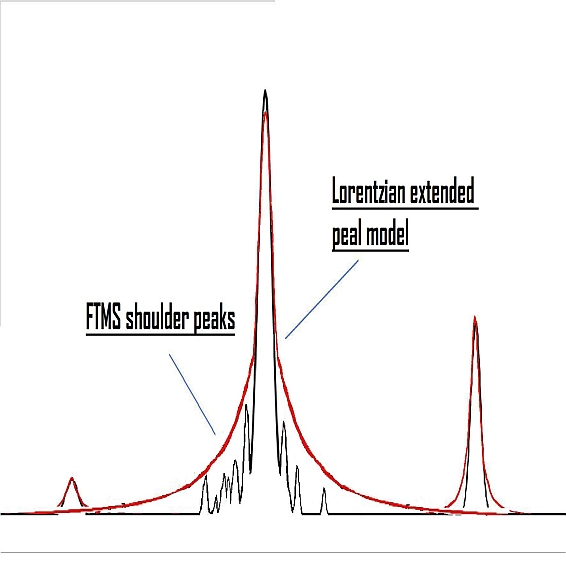
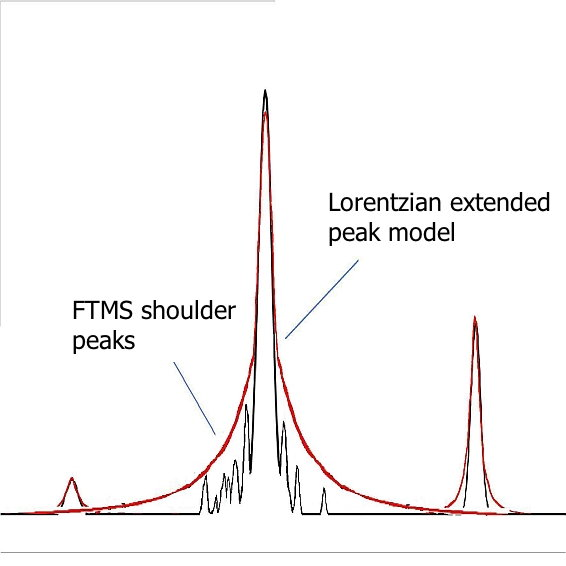
Working on Chromatogram builder help file...

Changed region(s): [[0.5707, 0.3004, 0.9912, 0.4505], [0.1201, 0.5106, 0.4205, 0.6307]]

diff --git a/src/net/sf/mzmine/modules/peakpicking/chromatogrambuilder/help/ChromatogramBuilder.html b/src/net/sf/mzmine/modules/peakpicking/chromatogrambuilder/help/ChromatogramBuilder.html
@@ -30,6 +30,10 @@ In the Mass detection step, individual ions are detected in each mass spectrum. 
 The choice of the optimal algorithm depends on the raw data characteristics (mass resolution, mass precision, peak shape).
 </p>
 
+<p>
+In case the raw data is already centroided, only one algorithm (Centroid mass detector) can be used. Other algorithms work only with continuous type data.
+</p>
+
 <h3>Centroid mass detector</h3>
 
 <p>
@@ -92,7 +96,9 @@ The practical usability of this method on real MS data is limited, but it is use
 <h3>Recursive threshold mass detector</h3>
 
 <p>
-This mass detector works in a recursive way. Initially, it looks at the whole range of data points. 
+This mass detector is suitable for continuous data, which has too much noise for the Exact mass detector to be used, but which shows a consistent width of m/z peaks. 
+The algorithm works in a recursive way.
+Initially, it looks at the whole range of data points. 
 If the m/z width of this range is not within given limits, a minimum data point is found and used to split the range in two parts.
 The same algorithm is then applied recursively on each part. 
 Recursion continues until all m/z ranges which fit into the given width limits are found.
@@ -120,16 +126,14 @@ Final m/z values are determined as local maxima of the identified m/z ranges.
 <h3>Wavelet transform mass detector</h3>
 
 <p>
-This mass detector uses the Mexican Hat wavelet model of the continuous wavelet transform CWT) algorithm. 
+The Wavelet transform mass detector is particularly suitable for low-resolution and noisy data.
+The method uses the Mexican Hat wavelet model of the continuous wavelet transform CWT) algorithm. 
 The search of mass spectrum peaks is executed in three steps. 
-First converts the original intensity of data points into wavelet domain.
-Next look for all local maximums in the calculated wavelet. 
-And finally sets a mass spectrum peak in the same point wherethe wavelet has a local maximum.  
-The mass spectrum peak is formed with the selected data point (mass and intensity) using the wavelet and all surrounding data points. 
-These weightings determine the relative importance of each data point mass on the average. 
-The data points used in the calculation of exact mass are considered part of the mass spectrum peak. 
-
-This mass detector is recommended for raw data with low resolution. 
+First, the data point intesity is converted into wavelet domain.
+Next, all local maxima of the calculated wavelet are found. 
+Finally, m/z peaks (ions) are declared in those points, where the wavelet has a local maximum.  
+The m/z peak is formed with the selected data point (mass and intensity) using the wavelet and all surrounding data points. 
+The final m/z value of the ion is calculated as an average of m/z values of surrounding data points weighted by their intensity.
 </p>
 
 <h4>Mathematical model</h4>
@@ -140,24 +144,28 @@ In mathematics and numerical analysis, the Mexican hat wavelet is the normalized
 The parameter <i>t</i> is the intensity of each data point in the curve, and <i>sigma</i> corresponds to the standard deviation.
 </p>
 
+<p>
 <img src="Wavelet_Mex_Hat.png">
 <img src="Wavelet_calculated_form.jpg">
-
-<p>
-To make easier the process of wavelet calculation the original function 
-is turned into two parts, where <i>Wc</i> is the wavelet coeefient and <i>y</i>
-is the intensity of the wavelet on certain point. In the first formula "t" is the
-<i>"Wavelet window size(%)"</i> parameter.
 </p>
 
-<img src="Wavelet_coefficients_calculation.jpg">
-<img src="Wavelet_intensities_calculation.jpg">
+<p>
+To simplify the process of wavelet calculation, the original function 
+is transformed into two parts, where <i>Wc</i> is the wavelet coefficient and <i>y</i>
+is the intensity of the wavelet at certain point. In the following formula, "t" is the
+<i>Wavelet window size(%)</i> parameter.
+</p>
 
 <p>
-The limits where is evaluated the Mexican Hat wavelet are from -5 until 5 (ESL,ESR)
- and the incremental step used in this range is result of divide the range from ESL 
- until ESR by 60000. The number of coeffients used to calculated the wavelet intensity 
- depends on the <i>"Scale level"</i> parameter.
+<img src="Wavelet_coefficients_calculation.jpg">
+<img src="Wavelet_intensities_calculation.jpg">
+</p>
+
+<p>
+The limits, where the Mexican Hat wavelet is evaluated, are from -5 until 5 (ESL, ESR)
+ and the incremental step used in this range is the result of divide the width of ESL 
+ to ESR range by 60,000. The number of coefficients used to calculated the wavelet intensity 
+ depends on the <i>Scale level</i> parameter.
 </p>
 
 <h4>Method parameters</h4>
@@ -175,9 +183,9 @@ results in a more detailed resulting graph and as a consequence more noisy peaks
  
 <dt>Wavelet window size (%)</dt>
 <dd>This value is the size of the window used to calculated the wavelet signal. 
-When the size of the window is small makes more noisy peaks could be detected.
- On the other hand, when the size of the window is complete is possible to avoid the undesired
- peaks, depending on the raw data to process this parameter is manipulated by the user.<br><br>
+When the size of the window is small, more noisy peaks can be detected.
+ The proper setting of this parameter may help to avoid the undesired noise
+ peaks.<br><br>
  
 Wavelet window size at 10%:<br>
 <img src="Wavelet_window_size10.jpg"><br>
@@ -195,157 +203,108 @@ Wavelet window size at 100%:<br>
 <h2>Filtering</h2>
 
 <p>
-Filtering is optional operation
+Filtering is an optional operation which may reduce the amount of false chromatograms by removing those m/z signals which can be recognized as noise. The filtering is done on the detected m/z peak lists, raw data is not considered in this step.
 </p>
 
-<h3>FTMS Shoulder peaks filter</h3>
+<h3>FTMS shoulder peaks filter</h3>
 
-The raw data obtained from a FTMS Mass Spectrometer usually contains a lot of small shoulder peaks (FTMS shoulder peaks). This data points can be casted aside of the peak detection process. In order to reach this, a peak model (shape) is used to determine which of these data points are shoulder peaks and which not. 
-
-Gauss peak model</h1>
-
-<p style="margin-left: 30px;" align="justify"; >
-One approach used in the peak analysis of spectrums for the purpose of modelling 
-is to use mathematical distributions. In this case an implementation of Gaussian 
-function is used to describe the possible shape of the current data. This peak model
- helps to eliminate data points in the spectrum considered as noise.
+<p>
+Raw data obtained from FTMS (Fourier Transform Mass Spectrometer) instruments often contains false signals around high-intensity m/z peaks, called "shoulder peaks".
+These signals are residues of the Fourier Transform function and their intensity is usually below 5% of the main (true) m/z peak.
+The FTMS shoulder peaks filter attempts to remove these false signals. 
+Detected m/z peaks are processed in the order of decreasing intensity.
+A peak model (shape) is built around each m/z peak using given function and resolution, and those m/z peaks which fall below the model are considered to be shoulder peaks and are removed.
+The method offers three peak models.
 </p>
 
-<h2 style="margin-left: 20px;">Mathematical model</h2>
+<h4>Method parameters</h4>
 
-<p style="margin-left: 30px;" align="justify"; >
+<dl>
+<dt>Mass resolution of the data</dt>
+<dd>Defines the width of the model, which should be equal to the estimated resolution of the peaks in the raw data. Mass resolution is defined according to the following scheme:<br>
+<img src="resolving-power.png"></dd>
+
+<dt>Peak model function</dt>
+<dd>Defines the shape of the model function, as described below.</dd> 
+
+</dl>
+
+<h4>Gaussian peak model</h4>
+
+<p>
 The Gaussian peak model is a characteristic symmetric "bell shape curve" that quickly
- falls off towards plus/minus infinity, described by the next formula.
+ falls off towards plus/minus infinity, described by the following formula.
+ <img src="GaussFormula.png">
 </p>
 
-<table style="margin-left: 30px; margin-right: auto;">
-
-<tr></tr>
-<tr></tr>
-<tr>
-	<td>
-	<img src="GaussFormula.png">
-	</td>
-</tr>
-</table>
-
-<p style="margin-left: 30px;" align="justify"; >
-The parameter a is the height of the curve's peak, b is the position of the center of the peak,
- and c controls the width of the "bell".The parameter c is related to the full width at half 
- maximum (FWHM) of the peak according to<br>
+<p>
+The parameter "a" is the height of the curve's peak, "b" is the position of the center of the peak,
+ and "c" controls the width of the "bell".
 </p>
 
-<table style="margin-left: 30px; margin-right: auto;">
-<tr></tr>
-<tr></tr>
-<tr>
-	<td>
-	<img src="FWHM.png">
-	</td>
-</tr>
-</table>
-
-<p style="margin-left: 30px;" align="justify"; >
-The value of <i>"FWHM"</i> is calculated using the mass of the current data point divided by 
-the resolution of the data.<br>
-</p>
-<img src="GaussPeak.jpg" border="2">
-
-Lorentzian peak model</h1>
-
-<p style="margin-left: 30px;" align="justify"; >
-The Lorentzian function (Cauchy-Lorentz distribution), is used for this model due
- its longer lateral sides. This characteristic helps to avoid lateral peaks (shoulder peaks)
-  in the case of FTMS raw data. This peak model helps to eliminate this not desired data points
-  in a more natural way than Gauss peak model and its variants.
+<p>
+<img src="GaussPeak.jpg">
 </p>
 
-<table style="margin-left: 30px; margin-right: auto;">
+<h4>Lorentzian peak model</h4>
 
-<tr></tr>
-<tr></tr>
-<tr>
-	<td>
-	<img src="Cauchy_distribution.png" border="2">
-	</td>
-</tr>
-</table>
-
-<h2 style="margin-left: 20px;">Mathematical model</h2>
-
-<p style="margin-left: 30px;" align="justify"; >
-The Lorentzian peak model is described by the next formula.
+<p>
+The Lorentzian function (Cauchy-Lorentz distribution) is used for this model.<br>
+<img src="Cauchy_distribution.png">
 </p>
 
-<table style="margin-left: 30px; margin-right: auto;">
-
-<tr></tr>
-<tr></tr>
-<tr>
-	<td>
-	<img src="LorentzianFormula.png">
-	</td>
-</tr>
-</table>
-
-<p style="margin-left: 30px;" align="justify"; >
-Where x0 is the location parameter, specifying the location of the peak of the distribution,
- and "y" is the scale parameter which specifies the half-width at half-maximum (HWHM).<br>
+<p>
+The Lorentzian peak model is described by the following formula:
+<img src="LorentzianFormula.png"><br>
+Where "x0" is the location parameter, specifying the location of the peak of the distribution,
+ and "y" is the scale parameter which specifies the width of the peak.
 </p>
 
-<p style="margin-left: 30px;" align="justify"; >
-The HWHM is calculated using the <a href="GaussPeak.html">FWHM</a> divided by 2.<br>
+<p>
+<img src="LorentzianPeak.jpg">
 </p>
 
-<img src="LorentzianPeak.jpg" border="2">
+<h4>Lorentzian extended peak model</h4>
 
-
-Lorentzian extended peak model</h1>
-
-<p style="margin-left: 30px;" align="justify"; >
-This model uses the same mathematical formula as Lorentzian peak model, but at the base 
-of the peak model the HWHM parameter is modified (below of 5% of intensity). 
-The width of the peak is increased until a similar value obtained from a peak with 
-a resolution of 5% of the actual data point.
+<p>
+This model uses the same mathematical formula as the Lorentzian peak model, but the lower part of the model (below of 5% of intensity)
+is extended. 
+The width of the peak below 5% intensity is calculated from another Lorentzian peak with 5% of the resolution of the main peak.
 </p>
 
-<h2 style="margin-left: 20px;">Mathematical model</h2>
-
-<p style="margin-left: 30px;" align="justify"; >
-The <a href="LorentzianPeak.html">Lorentzian peak model</a> is the base for this model. 
-The only difference is the width (HWHM) used at 5% of intensity or less.
+<p>
+<img src="LorentzianExtended.jpg">
 </p>
-
-<table style="margin-left: 30px; margin-right: auto;">
-<tr></tr>
-<tr></tr>
-<tr>
-	<td>
-	<img src="LorentzianExtended.jpg" border="2">
-	</td>
-</tr>
-</table>
-
 
 <h2>Chromatogram construction</h2>
 
 <p>
-After mass detection is finished in one spectrum the second step take each one of the detected 
-masses and try to find the most related chromatogram. If it is not possible to relate a mass data 
-point with any chromatogram, a new chromatogram is initialized with this mass. The factor to 
-establish the relationship between a chromatogram and a mass datapoint depends on the mass (m/z) 
-and intensity.
+When mass detection and filtering is finished, m/z data points from each scan must be connected together to form chromatograms.
 </p>
 
-<h3>Highest datapoint connector</h3>
+<h3>Highest data point</h3>
 
 <p>
-This chromatogram builder connects the received mass spectrum peak across the retention time to one chromatogram based in a match score. This match score is set using as a criteria the next highest data point within a m/z range. This builder determines which mass spectrum peaks are within the m/z range having as a central point the last mass peak added to the current chromatogram.
-
-This detector use a single parameter "noise level". This value sets the minimum intensity level for a centroided data point must have to be consider as part of a possible peak.
-Parameter setup dialog
-
+This method maintains a pool of chromatograms spanning between scans. 
+For each processed spectrum, the ion list generated by the mass detector (and filtered, if selected) is processed in the 
+order of decreasing intensity and each m/z peak is connected to the appropriate chromatogram according to
+the m/z tolerance parameter. 
+When no matching chromatogram is found, a new chromatogram is with the m/z value and added to the pool.
+When a chromatogram is finished (no m/z peak is found to be connected to), its length (time span) and intensity (heihgt) are checked according to user-specified minimal values.
+Those chromatograms which fit the required parameters are added to the final peak list.
 </p>
+
+<dl>
+<dt>Min time span</dt>
+<dd>Minimum time over which the same ion must be connected in order to be recognized as a chromatogram. This parameter should be set by observing the raw data according to the standard length of chromatographic peaks.</dd>
+
+<dt>Min height</dt>
+<dd>Minimum intensity of the highest data point in the chromatogram. If chromatogram height is below this level, it is discarded.</dd> 
+
+<dt>m/z tolerance</dt>
+<dd>Maximum m/z difference of data points in consecutive scans in order to be connected in the same chromatogram.</dd> 
+
+</dl>
 
 </body>
 </html>

diff --git a/src/net/sf/mzmine/modules/peakpicking/chromatogrambuilder/massfilters/shoulderpeaksfilter/peakmodels/ExtendedLorentzianPeak.java b/src/net/sf/mzmine/modules/peakpicking/chromatogrambuilder/massfilters/shoulderpeaksfilter/peakmodels/ExtendedLorentzianPeak.java
@@ -30,26 +30,26 @@ import net.sf.mzmine.util.Range;
  * cover side regions, for example FTMS shoulder peaks.
  * 
  */
-public class LorentzianPeakWithShoulder implements PeakModel {
+public class ExtendedLorentzianPeak implements PeakModel {
 
     /**
      * This constant defines at what percentage of the intensity we set as the
      * border between the main and the broad (shoulder) peak models. Default is
      * 5%.
      */
-    public static final double shoulderIntensityRatio = 0.05f;
+    public static final double shoulderIntensityRatio = 0.05;
 
     /**
      * This constant defines what percentage of the resolution shall we use to
      * build the broad (shoulder) peak model. Default is 5%.
      */
-    public static final double shoulderResolutionRatio = 0.05f;
+    public static final double shoulderResolutionRatio = 0.05;
 
     private LorentzianPeak mainPeak, shoulderPeak;
     private Range mainPeakRange;
     private double shoulderIntensity;
 
-    public LorentzianPeakWithShoulder() {
+    public ExtendedLorentzianPeak() {
         mainPeak = new LorentzianPeak();
         shoulderPeak = new LorentzianPeak();
     }

diff --git a/src/net/sf/mzmine/modules/peakpicking/chromatogrambuilder/massfilters/shoulderpeaksfilter/PeakModelType.java b/src/net/sf/mzmine/modules/peakpicking/chromatogrambuilder/massfilters/shoulderpeaksfilter/PeakModelType.java
@@ -21,13 +21,13 @@ package net.sf.mzmine.modules.peakpicking.chromatogrambuilder.massfilters.should
 
 import net.sf.mzmine.modules.peakpicking.chromatogrambuilder.massfilters.shoulderpeaksfilter.peakmodels.GaussPeak;
 import net.sf.mzmine.modules.peakpicking.chromatogrambuilder.massfilters.shoulderpeaksfilter.peakmodels.LorentzianPeak;
-import net.sf.mzmine.modules.peakpicking.chromatogrambuilder.massfilters.shoulderpeaksfilter.peakmodels.LorentzianPeakWithShoulder;
+import net.sf.mzmine.modules.peakpicking.chromatogrambuilder.massfilters.shoulderpeaksfilter.peakmodels.ExtendedLorentzianPeak;
 
 public enum PeakModelType {
 
     GAUSS("Gaussian", GaussPeak.class),
     LORENTZ("Lorentzian", LorentzianPeak.class),
-    LORENTZEXTENDED("Lorentzian extended", LorentzianPeakWithShoulder.class);
+    LORENTZEXTENDED("Lorentzian extended", ExtendedLorentzianPeak.class);
 
     private final String modelName;
     private final Class modelClass;
